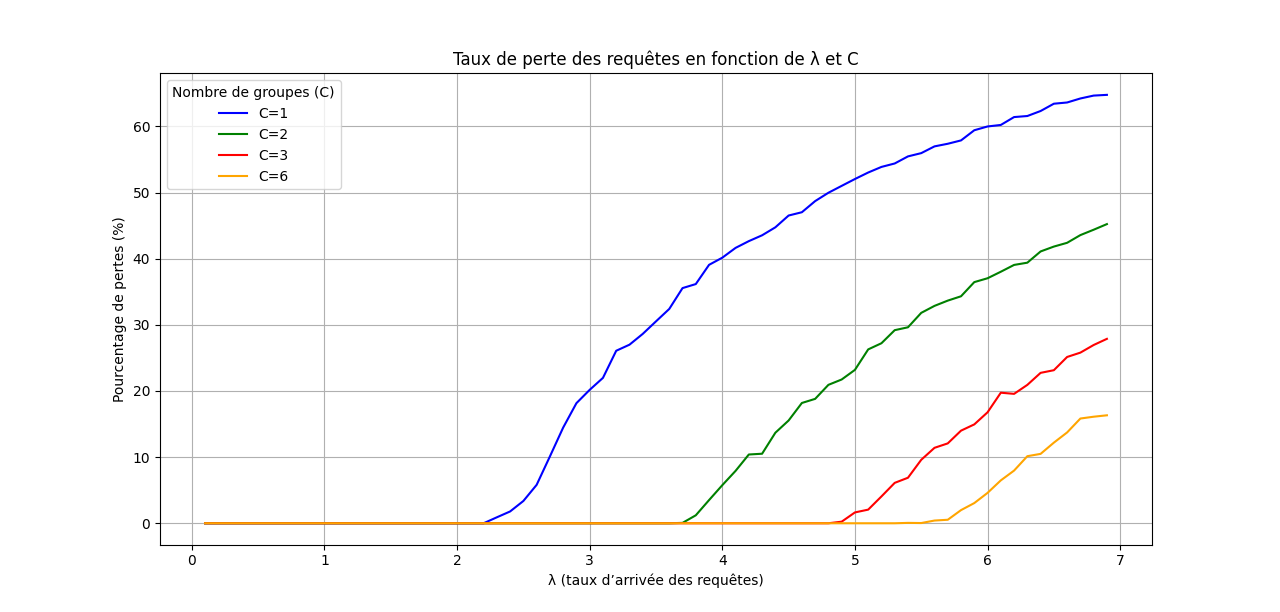
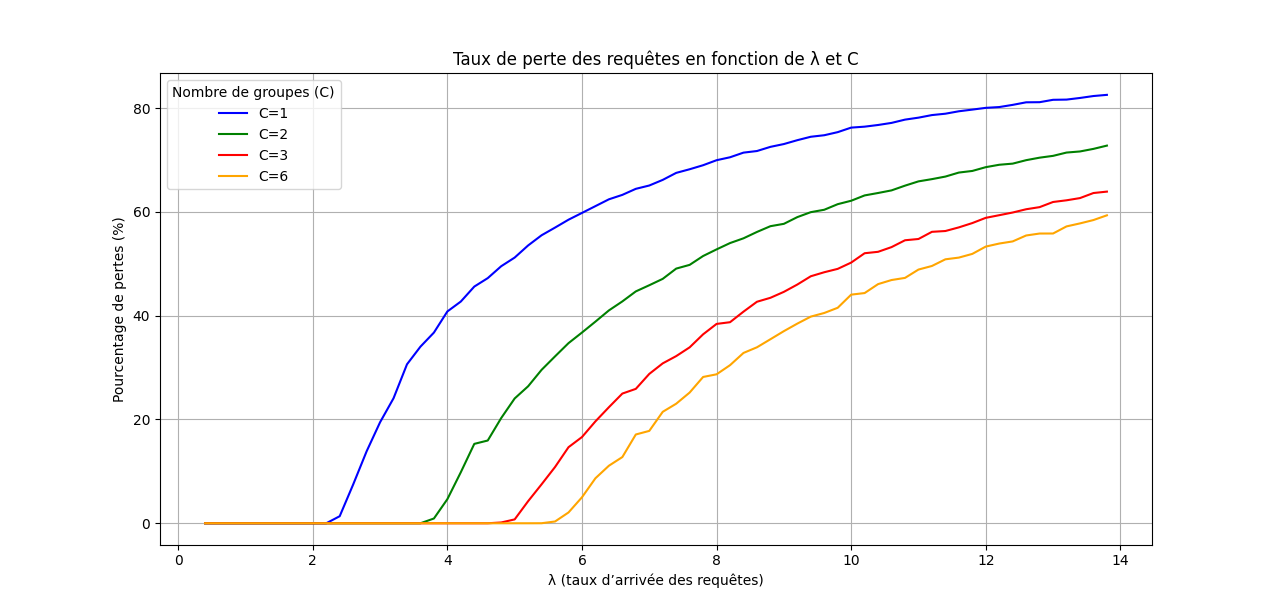
Refait les plots + estimation empirique des valeurs de lambda pour taux d'erreur > 5%

diff --git a/Main.py b/Main.py
@@ -83,50 +83,50 @@ def calcule_moyenne(data):
 
     return (avg / lenght)
 
-if __name__ == "__main__":
+def plot_temps_reponse():
+    for i, nb_groupes in enumerate([1, 2, 3, 6]):
+        moyennes = []
+        ic_95 = []
+        for lb in lambdas:
+            print(lb)
+            rout, echeancier = simulation(temps_max, lb, nb_groupes)
+            print(f"Fin de la simulation:\n - Requêtes traitées: {rout.nb_total}\n - Requêtes perdues: {rout.perte}")
+            deltas = calcule_delta(echeancier.historique) # potentiellement changer calcule_delta pour retourner une liste
+            temps_reponses = list(deltas.values())
+            n = len(temps_reponses)
 
-    couleurs = ['blue', 'green', 'red', 'orange']
-    lambdas = [i/10 for i in range(1, 70)]
-    temps_max = 10000
-    groupes_list = [1, 2, 3, 6] 
-    #for i, nb_groupes in enumerate([1, 2, 3, 6]):
-    #    moyennes = []
-    #    ic_95 = []
-    #    for lb in lambdas:
-    #        print(lb)
-    #        rout, echeancier = simulation(temps_max, lb, nb_groupes)
-    #        print(f"Fin de la simulation:\n - Requêtes traitées: {rout.nb_total}\n - Requêtes perdues: {rout.perte}")
-    #        deltas = calcule_delta(echeancier.historique) # potentiellement changer calcule_delta pour retourner une liste
-    #        temps_reponses = list(deltas.values())
-    #        n = len(temps_reponses)
-    #
-    #        if n > 1:
-    #            moyenne = np.mean(temps_reponses)
-    #            ecart_type = np.std(temps_reponses, ddof=1)
-    #            intervalle = 1.96 * (ecart_type / np.sqrt(n))
-    #
-    #        moyennes.append(moyenne)
-    #        ic_95.append(intervalle)
-    #
-    #    plt.errorbar(lambdas, moyennes, yerr=ic_95, fmt='-o', color=couleurs[i], label=f"{nb_groupes} groupes")
-    #
-    #
-    #plt.xlabel("λ (taux d’arrivée des requêtes)")
-    #plt.ylabel("Temps de réponse moyen (s)")
-    #plt.title("Évolution du temps de réponse moyen en fonction de λ")
-    #plt.grid(True)
-    #plt.legend(title="Nb Groupes")
-    #plt.show()
+            if n > 1:
+                moyenne = np.mean(temps_reponses)
+                ecart_type = np.std(temps_reponses, ddof=1)
+                intervalle = 1.96 * (ecart_type / np.sqrt(n))
 
+            moyennes.append(moyenne)
+            ic_95.append(intervalle)
+
+        plt.errorbar(lambdas, moyennes, yerr=ic_95, fmt='-', color=couleurs[i], label=f"{nb_groupes} groupes")
+
+
+    plt.xlabel("λ (taux d’arrivée des requêtes)")
+    plt.ylabel("Temps de réponse moyen (s)")
+    plt.title("Évolution du temps de réponse moyen en fonction de λ")
+    plt.grid(True)
+    plt.legend(title="Nb Groupes")
+    plt.show()
+
+def plot_taux_perte():
     plt.figure()
     for i, C in enumerate(groupes_list):
         pertes_pct = []
         for lb in lambdas:
             print(lb)
-            rout, ech = simulation(temps_max, lb, C)
-            print(f"Fin de la simulation:\n - Requêtes traitées: {rout.nb_total}\n - Requêtes perdues: {rout.perte}")
-            if rout.nb_total > 0:
-                pertes_pct.append(100 * rout.perte / rout.nb_total)
+            moy = []
+            for _ in range(2):
+                rout, _ = simulation(temps_max, lb, C)
+                print(f"Fin de la simulation:\n - Requêtes traitées: {rout.nb_total}\n - Requêtes perdues: {rout.perte}")
+                moy.append(100 * rout.perte / rout.nb_total)
+            moy = np.mean(moy)
+            if moy > 0:
+                pertes_pct.append(moy)
             else:
                 pertes_pct.append(0)
         plt.plot(lambdas, pertes_pct, '-', color=couleurs[i], label=f"C={C}")
@@ -137,3 +137,12 @@ if __name__ == "__main__":
     plt.grid(True)
     plt.legend(title="Nombre de groupes (C)")
     plt.show()
+
+if __name__ == "__main__":
+
+    couleurs = ['blue', 'green', 'red', 'orange']
+    lambdas = [i/10 for i in range(1, 70)]
+    temps_max = 10000
+    groupes_list = [1, 2, 3, 6]
+
+    plot_taux_perte()
